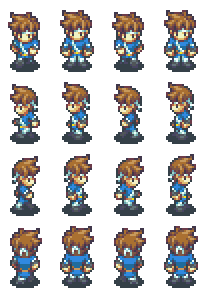
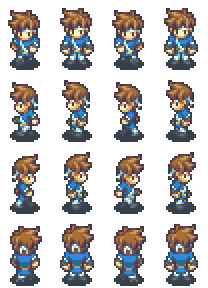
made tiny update to theplayer texture

diff --git a/Hero of Novac/Hero_of_Novac/Player.cs b/Hero of Novac/Hero_of_Novac/Player.cs
@@ -17,7 +17,7 @@ namespace Hero_of_Novac
         private Rectangle window;
 
         private const int SPRITE_WIDTH = 52;
-        private const int SPRITE_HEIGHT = 70;
+        private const int SPRITE_HEIGHT = 72;
 
         private enum GameState
         {
@@ -57,7 +57,7 @@ namespace Hero_of_Novac
             this.overworldTex = overworldTex;
             this.combatTex = combatTex;
             pixel = p;
-            sourceRec = new Rectangle(SPRITE_WIDTH, 2, SPRITE_WIDTH, SPRITE_HEIGHT);
+            sourceRec = new Rectangle(SPRITE_WIDTH, 0, SPRITE_WIDTH, SPRITE_HEIGHT);
             playerPos = new Vector2((window.Width - SPRITE_WIDTH) / 2, (window.Height - SPRITE_HEIGHT) / 2);
 
             healthBar = new PercentageRectangle(new Rectangle((int)playerPos.X - 10, (int)playerPos.Y - 10, 66, 5), 100, Color.Red);
@@ -111,17 +111,17 @@ namespace Hero_of_Novac
             else if (Math.Abs(speed.Y) > Math.Abs(speed.X))
             {
                 if (speed.Y > 0)
-                    sourceRec.Y = 218;
+                    sourceRec.Y = 216;
                 else
-                    sourceRec.Y = 2;
+                    sourceRec.Y = 0;
 
             }
             else if (Math.Abs(speed.X) > Math.Abs(speed.Y))
             {
                 if (speed.X > 0)
-                    sourceRec.Y = 146;
+                    sourceRec.Y = 144;
                 else
-                    sourceRec.Y = 74;
+                    sourceRec.Y = 72;
             }
             if (speed != Vector2.Zero)
             {
